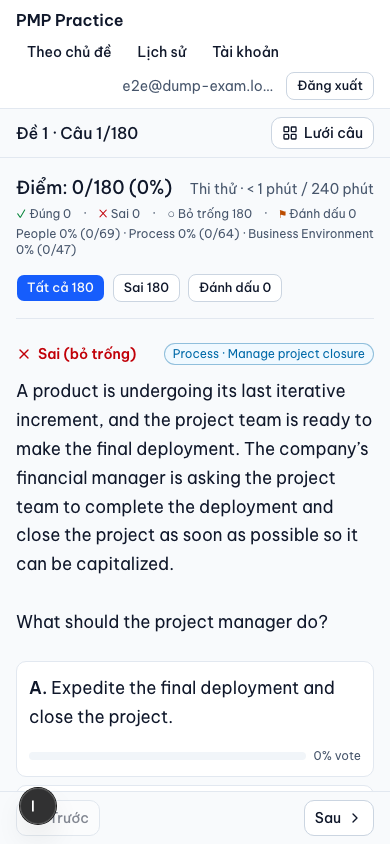
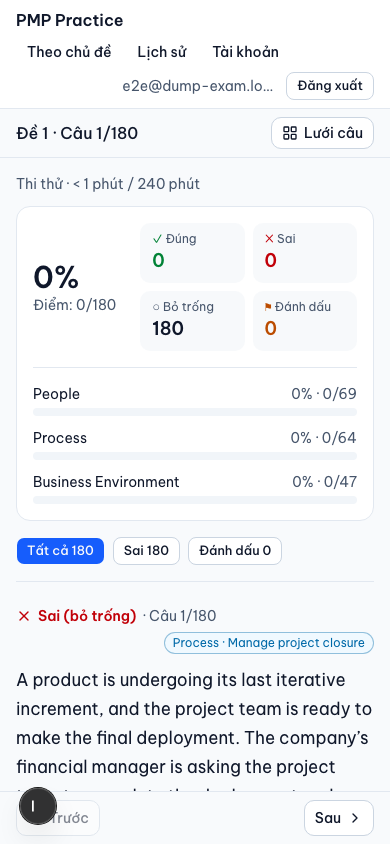
feat(result): summary card with stat tiles and Domain bars
The Result header stacked five same-weight lines; Câu N/M moves to the Question line.

Changed region(s): [[0.0308, 0.1848, 0.9538, 0.6777], [0.0308, 0.8009, 0.9538, 0.9242], [0.0308, 0.7085, 0.9538, 0.7701]]

diff --git a/app/attempts/[id]/result-screen.tsx b/app/attempts/[id]/result-screen.tsx
@@ -8,15 +8,15 @@ import type { Choice } from "@/db/schema";
 import { taskLabel, taskOf } from "@/lib/question-tags";
 import { cn, TIME_LIMIT_MIN } from "@/lib/utils";
 import { formatDuration, inTab, resultCell, type ResultTab } from "./logic";
-import { QuestionLayout, Stats, usePosition } from "./question-layout";
+import { QuestionLayout, usePosition } from "./question-layout";
 
 type Question = { id: number; task: string | null; text: string; choices: (Choice & { percent: number })[]; correct: string; suggested: string; selected: string[]; isCorrect: boolean; marked: boolean };
 
-/** Tag colors per Domain (full class names so Tailwind sees them). */
-const domainTone: Record<string, string> = {
-  People: "border-people/40 bg-people-soft text-people",
-  Process: "border-process/40 bg-process-soft text-process",
-  "Business Environment": "border-business/40 bg-business-soft text-business",
+/** Colors per Domain: the Task tag and the score bar (full class names so Tailwind sees them). */
+const domainTone: Record<string, { tag: string; bar: string }> = {
+  People: { tag: "border-people/40 bg-people-soft text-people", bar: "bg-people" },
+  Process: { tag: "border-process/40 bg-process-soft text-process", bar: "bg-process" },
+  "Business Environment": { tag: "border-business/40 bg-business-soft text-business", bar: "bg-business" },
 };
 
 const tabs: { value: ResultTab; label: string }[] = [
@@ -75,18 +75,47 @@ export function ResultScreen(props: { title: string; drill: boolean; domains: { 
     <QuestionLayout
       title={props.title}
       meta={props.timed ? `Thi thử · ${formatDuration(props.durationSec)} / ${TIME_LIMIT_MIN} phút` : `${props.drill ? "Ôn" : "Luyện tập"} · ${formatDuration(props.durationSec)}`}
-      figure={`Điểm: ${props.score}/${total} (${pct}%)`}
-      stats={
-        <Stats
-          items={[
-            { glyph: "✓", label: "Đúng", n: total - wrongTab, tone: "text-correct" },
-            { glyph: "✗", label: "Sai", n: wrongTab - blank, tone: "text-wrong" },
-            { glyph: "○", label: "Bỏ trống", n: blank },
-            { glyph: "⚑", label: "Đánh dấu", n: markedN, tone: "text-marked" },
-          ]}
-        />
+      summary={
+        <section aria-label="Tóm tắt" className="rounded-xl border bg-card p-4">
+          <div className="flex flex-wrap items-center gap-x-6 gap-y-3">
+            <div>
+              <p className="text-3xl font-semibold tabular-nums">{pct}%</p>
+              <p className="text-sm text-muted-foreground tabular-nums">Điểm: {props.score}/{total}</p>
+            </div>
+            <dl className="grid min-w-0 flex-1 grid-cols-2 gap-2 sm:grid-cols-4">
+              {[
+                { glyph: "✓", label: "Đúng", n: total - wrongTab, tone: "text-correct" },
+                { glyph: "✗", label: "Sai", n: wrongTab - blank, tone: "text-wrong" },
+                { glyph: "○", label: "Bỏ trống", n: blank, tone: "" },
+                { glyph: "⚑", label: "Đánh dấu", n: markedN, tone: "text-marked" },
+              ].map((x) => (
+                <div key={x.label} className="rounded-lg bg-muted/60 px-3 py-2">
+                  <dt className="text-xs text-muted-foreground"><span aria-hidden className={x.tone}>{x.glyph}</span> {x.label}</dt>
+                  <dd className={cn("text-lg font-semibold tabular-nums", x.tone)}>{x.n}</dd>
+                </div>
+              ))}
+            </dl>
+          </div>
+          {props.domains.length > 0 && (
+            <ul className="mt-4 flex flex-col gap-3 border-t pt-4">
+              {props.domains.map((d) => {
+                const p = Math.round((d.correct / d.total) * 100);
+                return (
+                  <li key={d.domain} className="text-sm">
+                    <div className="flex items-baseline justify-between gap-3">
+                      <span>{d.domain}</span>
+                      <span className="text-muted-foreground tabular-nums">{p}% · {d.correct}/{d.total}</span>
+                    </div>
+                    <div role="meter" aria-label={`${d.domain} ${p}%`} aria-valuenow={p} aria-valuemin={0} aria-valuemax={100} className="mt-1 h-2 overflow-hidden rounded-full bg-muted">
+                      <div className={cn("h-full", domainTone[d.domain]?.bar)} style={{ width: `${p}%` }} />
+                    </div>
+                  </li>
+                );
+              })}
+            </ul>
+          )}
+        </section>
       }
-      domains={props.domains.map((d) => `${d.domain} ${Math.round((d.correct / d.total) * 100)}% (${d.correct}/${d.total})`).join(" · ")}
       tabs={tabBar}
       pos={pos}
       total={total}
@@ -111,12 +140,13 @@ export function ResultScreen(props: { title: string; drill: boolean; domains: { 
           <p className={cn("flex flex-wrap items-center gap-1.5 text-sm font-semibold", q.isCorrect ? "text-correct" : "text-wrong")}>
             {q.isCorrect ? <Check className="size-4" /> : <X className="size-4" />}
             {q.isCorrect ? "Đúng" : q.selected.length ? "Sai" : "Sai (bỏ trống)"}
+            <span className="font-normal text-muted-foreground tabular-nums">· Câu {pos}/{total}</span>
             {q.marked && (
               <span className="ml-2 flex items-center gap-1 text-marked">
                 <Flag className="size-4" /> Đã đánh dấu
               </span>
             )}
-            {taskLabel(q.task) && <Badge variant="outline" className={cn("ml-auto h-auto max-w-full whitespace-normal font-normal", domainTone[taskOf(q.task)!.domain])}>{taskLabel(q.task)}</Badge>}
+            {taskLabel(q.task) && <Badge variant="outline" className={cn("ml-auto h-auto max-w-full whitespace-normal font-normal", domainTone[taskOf(q.task)!.domain].tag)}>{taskLabel(q.task)}</Badge>}
           </p>
           <div className="question-text mt-3" dangerouslySetInnerHTML={{ __html: q.text }} /> {/* sanitized at import */}
           <ul className="mt-6 flex flex-col gap-2">

diff --git a/app/attempts/[id]/question-layout.tsx b/app/attempts/[id]/question-layout.tsx
@@ -35,9 +35,9 @@ const isTyping = (t: EventTarget | null) =>
 export function QuestionLayout(props: {
   title: string; // line 1: "Đề 2 · Câu 72/180"
   meta?: React.ReactNode; // line 1, right-aligned
-  figure: React.ReactNode; // line 2
-  stats: React.ReactNode; // line 3, see Stats
-  domains?: string; // line 4, Result of an Exam only
+  figure?: React.ReactNode; // line 2
+  stats?: React.ReactNode; // line 3, see Stats
+  summary?: React.ReactNode; // Result: replaces lines 2-3, and line 1 drops "Câu N/M" (the Question shows it)
   tabs?: React.ReactNode; // Result: above the grid on desktop, below line 3 on mobile
   pos: number;
   total: number;
@@ -135,15 +135,23 @@ export function QuestionLayout(props: {
         <div>
           <header className="mb-6 border-b pb-4">
             <div className="hidden items-baseline justify-between gap-3 lg:flex">
-              <h1 className="min-w-0 truncate text-2xl font-semibold tabular-nums">{heading}</h1>
+              <h1 className="min-w-0 truncate text-2xl font-semibold tabular-nums">{props.summary ? props.title : heading}</h1>
               {props.meta && <p className="shrink-0 text-sm text-muted-foreground">{props.meta}</p>}
             </div>
-            <div className="flex items-baseline justify-between gap-3 lg:mt-1">
-              <p className="whitespace-nowrap text-lg font-medium tabular-nums">{props.figure}</p>
-              {props.meta && <p className="shrink-0 text-sm text-muted-foreground lg:hidden">{props.meta}</p>}
-            </div>
-            <p className="mt-1 flex flex-wrap gap-x-3 gap-y-1 text-xs text-muted-foreground tabular-nums">{props.stats}</p>
-            {props.domains && <p className="mt-1 text-xs text-muted-foreground tabular-nums">{props.domains}</p>}
+            {props.summary ? (
+              <>
+                {props.meta && <p className="text-sm text-muted-foreground lg:hidden">{props.meta}</p>}
+                <div className="mt-3">{props.summary}</div>
+              </>
+            ) : (
+              <>
+                <div className="flex items-baseline justify-between gap-3 lg:mt-1">
+                  <p className="whitespace-nowrap text-lg font-medium tabular-nums">{props.figure}</p>
+                  {props.meta && <p className="shrink-0 text-sm text-muted-foreground lg:hidden">{props.meta}</p>}
+                </div>
+                <p className="mt-1 flex flex-wrap gap-x-3 gap-y-1 text-xs text-muted-foreground tabular-nums">{props.stats}</p>
+              </>
+            )}
             {props.tabs && <div className="mt-4 lg:hidden">{props.tabs}</div>}
           </header>
           {props.children}

diff --git a/e2e/attempt.spec.ts b/e2e/attempt.spec.ts
@@ -60,7 +60,7 @@ test("desktop: keyboard switches, answers and marks; the answer survives a reloa
   await expect(page).not.toHaveURL(/\?q=2/);
   await page.getByRole("dialog").getByRole("button", { name: "Nộp bài" }).click();
   await expect(page.getByText(/^Điểm: \d+\/180/).filter({ visible: true })).toBeVisible(); // Score
-  await expect(visible(page, "Đề 1 · Câu 1/180")).toBeVisible();
+  await expect(visible(page, "· Câu 1/180")).toBeVisible(); // Result: the position sits on the Question line
   await expect(page.getByRole("tab", { name: /^Tất cả 180$/ })).toBeVisible();
   await page.waitForLoadState("networkidle");
 
@@ -119,5 +119,5 @@ test("Timed Attempt: 240-minute label on the Exam page, attempt screen and Resul
   await button(page, "Nộp bài").click();
   await page.getByRole("dialog").getByRole("button", { name: "Nộp bài" }).click();
   await expect(visible(page, /^Thi thử · .* \/ 240 phút$/)).toBeVisible();
-  await expect(page.getByText(/People \d+% \(\d+\/\d+\) · Process \d+% \(\d+\/\d+\) · Business Environment \d+% \(\d+\/\d+\)/).filter({ visible: true })).toBeVisible();
+  for (const d of ["People", "Process", "Business Environment"]) await expect(page.getByRole("meter", { name: new RegExp(`^${d} \\d+%$`) })).toBeVisible();
 });

diff --git a/e2e/screenshots.spec.ts b/e2e/screenshots.spec.ts
@@ -178,7 +178,7 @@ test.describe("screenshots dp04", () => {
       if (name === "mobile") await page.getByRole("button", { name: "Lưới câu" }).click(); // Submit lives in the drawer
       await page.getByRole("button", { name: "Nộp bài" }).filter({ visible: true }).click();
       await page.getByRole("dialog").getByRole("button", { name: "Nộp bài" }).last().click();
-      await page.getByText(/People \d+%/).filter({ visible: true }).waitFor();
+      await page.getByRole("meter", { name: /^People \d+%$/ }).waitFor();
       await page.screenshot({ path: `.scratch/domain-practice/screenshots/04-${name}.png` });
       await page.context().close();
     });
